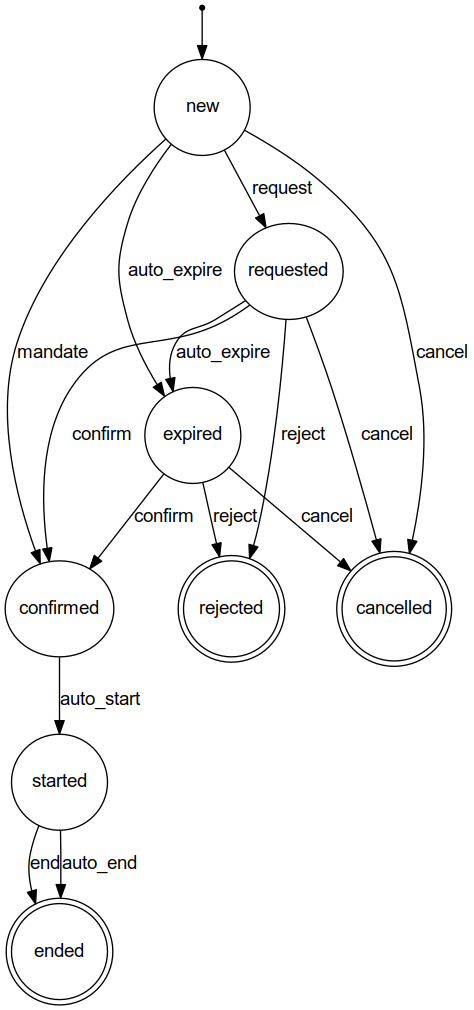
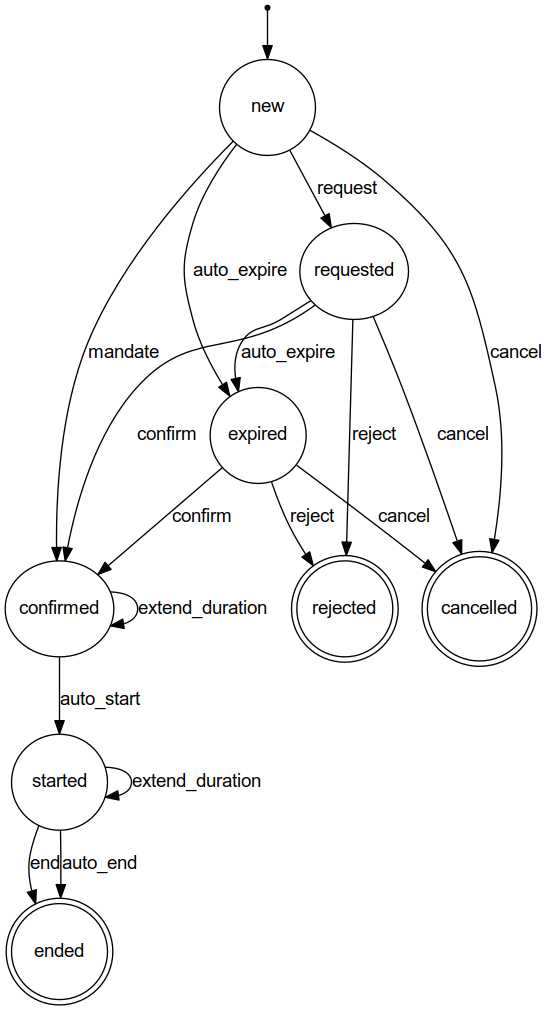
Add MW event to extend maintenance duration
This doesn't/won't actually update the `duration` by itself, any desired
update to this field must be made independently of this event, but this
does means we can handle extending the duration of maintenance in the
same way as all other maintenance events (by leaving an RT comment,
tracking the user who initiated this action, and any other future
additional behaviour we add when an event occurs).

diff --git a/spec/models/maintenance_window_spec.rb b/spec/models/maintenance_window_spec.rb
@@ -189,6 +189,37 @@ RSpec.describe MaintenanceWindow, type: :model do
       end
     end
 
+    RSpec.shared_examples 'it can be extended' do |current_state|
+      it 'can be extended' do
+        original_state = subject.state
+        admin = create(:admin)
+
+        # Note: this event cannot just be called `extend` as this would clash
+        # with `Object#extend`.
+        subject.extend_duration!(admin)
+
+        expect(subject.state).to eq(original_state)
+      end
+
+      it 'has RT ticket comment added when auto-started' do
+        subject.component = create(:component, name: 'some_component')
+        subject.duration = 5
+
+        expected_start = subject.requested_start.to_formatted_s(:short)
+        expected_end = subject.expected_end.to_formatted_s(:short)
+        text_regex = Regexp.new <<~REGEX.squish
+          #{current_state.capitalize} maintenance of some_component .*
+          extended.*this component.*under maintenance from #{expected_start}
+          until #{expected_end}
+        REGEX
+        expect(Case.request_tracker).to receive(
+          :add_ticket_correspondence
+        ).with(id: subject.case.rt_ticket_id, text: text_regex)
+
+        subject.extend_duration!(create(:admin))
+      end
+    end
+
     RSpec.shared_examples 'it can be auto-ended' do
       it 'can be auto-ended' do
         subject.auto_end!
@@ -254,6 +285,7 @@ RSpec.describe MaintenanceWindow, type: :model do
       end
 
       it_behaves_like 'it can be auto-started'
+      it_behaves_like 'it can be extended', 'scheduled'
     end
 
     context 'when started' do
@@ -263,6 +295,7 @@ RSpec.describe MaintenanceWindow, type: :model do
 
       it_behaves_like 'it can be ended'
       it_behaves_like 'it can be auto-ended'
+      it_behaves_like 'it can be extended', 'ongoing'
     end
 
     context 'when expired' do
@@ -436,6 +469,7 @@ RSpec.describe MaintenanceWindow, type: :model do
           :cancel,
           :confirm,
           :end,
+          :extend_duration,
           :mandate,
           :reject,
           :request,

diff --git a/app/models/maintenance_notifier.rb b/app/models/maintenance_notifier.rb
@@ -51,6 +51,15 @@ MaintenanceNotifier = Struct.new(:window) do
     EOF
   end
 
+  def extend_duration_comment
+    current_state = window.started? ? 'Ongoing' : 'Scheduled'
+    <<~EOF
+      #{current_state} maintenance of #{associated_model.name} has been
+      extended, this #{associated_model.readable_model_name} will now be under
+      maintenance from #{requested_start} until #{expected_end}.
+    EOF
+  end
+
   def end_comment
     "Maintenance of #{associated_model.name} ended by #{window.ended_by.name}."
   end

diff --git a/app/models/maintenance_window.rb b/app/models/maintenance_window.rb
@@ -35,6 +35,7 @@ class MaintenanceWindow < ApplicationRecord
     event :cancel { transition [:new, :requested, :expired] => :cancelled }
     event :reject { transition [:requested, :expired] => :rejected }
     event :end, &end_transition
+    event :extend_duration { transition confirmed: :confirmed, started: :started }
     event :auto_expire { transition [:new, :requested] => :expired }
     event :auto_start { transition confirmed: :started }
     event :auto_end, &end_transition

diff --git a/spec/models/maintenance_window_state_transition_spec.rb b/spec/models/maintenance_window_state_transition_spec.rb
@@ -37,7 +37,7 @@ RSpec.describe MaintenanceWindowStateTransition, type: :model do
         build(:maintenance_window_state_transition, event: event, user: user)
       end
 
-      admin_only_events = [:request, :mandate, :cancel, :end]
+      admin_only_events = [:request, :mandate, :cancel, :extend_duration, :end]
       contact_only_events = [:reject]
       any_user_initiated_events = [:confirm]
       automatic_events = [:auto_start, :auto_end, :auto_expire, nil]

diff --git a/app/models/maintenance_window_state_transition.rb b/app/models/maintenance_window_state_transition.rb
@@ -22,7 +22,7 @@ class MaintenanceWindowStateTransition < ApplicationRecord
 
   def validate_user_can_initiate
     case event&.to_sym
-    when :request, :mandate, :cancel, :end
+    when :request, :mandate, :cancel, :extend_duration, :end
       errors.add(:user, 'must be an admin') unless user&.admin?
     when :reject
       errors.add(:user, 'must be a site contact') unless user&.contact?
